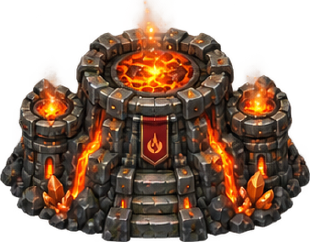
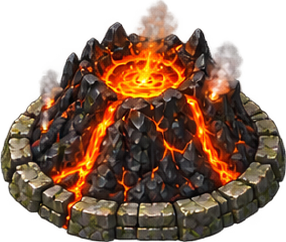
Repaint Lava as an actual volcano
Second dual redone under the name rule. The old Lava was a basalt fortress with a caldera on
its roof; this one is a live cinder cone -- black basalt and cracked obsidian, an open crater
of molten rock, lava rivers running down every side and crusting black at the bottom,
fumaroles smoking along the slope, a short fountain from the pool at tier 5.

The cleanest set the pipeline has produced. Anchors 49.5 / 50.0 / 49.8 / 49.9 / 49.2%, every
tier wider than tall at 1.18-1.31, canvas exact, cut in one pass with nothing to fix.

The low kerb of heat-blackened carved blocks is this tower's version of the plinth rule and it
earns its place twice. It says built thing rather than boulder, on a board already full of
rocks -- and being a plain even ring, it is why the anchors are the best in the roster. Where
a named form has no natural symmetry of its own, give it a symmetrical thing to stand in.

diff --git a/godottowerdefense/docs/tower-art-prompt.md b/godottowerdefense/docs/tower-art-prompt.md
@@ -10,9 +10,9 @@ roster this recipe is now being used for, and **they no longer follow the recipe
 Read "Fusions are named things" below before generating one: the six element towers keep the
 shared fortress language, and every fusion now takes its shape from ITS OWN NAME instead.
 
-Painted under the NEW name rule: Dinosaur, Steam. Painted under the OLD fusion recipe and
-queued to be redone: Lava (a fortress, not a volcano), Clay, Sun, Well, Roots. Unpainted:
-Infernal, Rainbow, Flesh Golem, Pure.
+Painted under the NEW name rule: Dinosaur, Steam, Lava. Painted under the OLD fusion recipe
+and queued to be redone: Clay, Sun, Well, Roots. Unpainted: Infernal, Rainbow, Flesh Golem,
+Pure.
 
 The pipeline around it is in [CLAUDE.md](../../CLAUDE.md) ("Painted tower set"); this file is
 only the prompt.
@@ -234,6 +234,17 @@ was a rock apron on one side of the FOOT and did move the building off its spot.
 
 Tier 1 came in at 0.94 wide to tall, a hair under the floor, for the same reason in the other
 axis — a tall plume over the smallest engine. Not worth a re-cut at that size.
+
+### What Lava measured, repainted as a volcano
+
+The cleanest set the pipeline has produced: anchors 49.5 / 50.0 / 49.8 / 49.9 / 49.2%, every
+tier wider than tall at 1.18-1.31, canvas exact, cut in one pass. A live cinder cone with a
+molten crater and lava rivers, held in a low kerb of heat-blackened carved blocks.
+
+The kerb is the volcano's version of the plinth rule, and it earns its place twice over: it
+says a built thing rather than a boulder on a board already full of rocks, and being a plain
+even ring it is the reason the anchors are the best in the roster. **Where a named form has no
+natural symmetry, give it a symmetrical thing to stand in.**
 
 ### A cutter bug this sheet found
 
